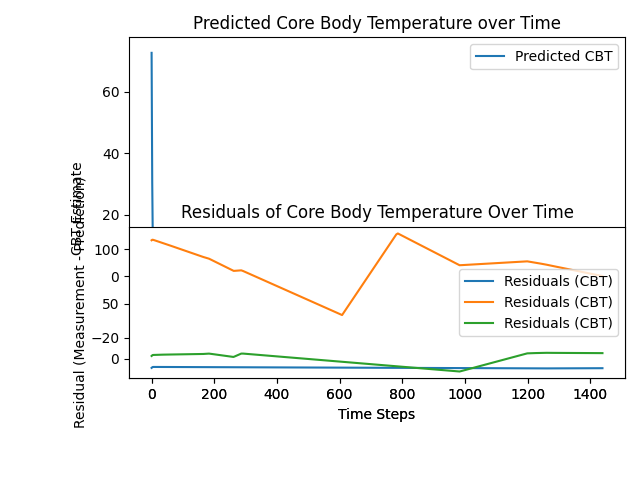
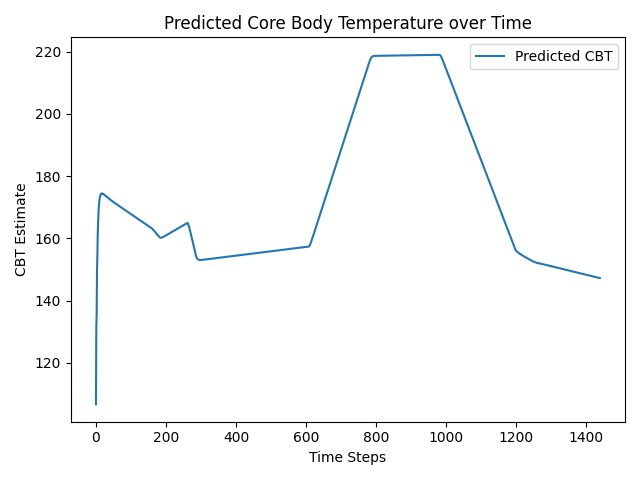
perspective...filter fixed up a bit

diff --git a/CoreBodyTemp/my_kalman_filter.py b/CoreBodyTemp/my_kalman_filter.py
@@ -37,9 +37,8 @@ import pandas as pd
 from filterpy.kalman import predict
 from filterpy.common import Q_discrete_white_noise
 from filterpy.kalman import KalmanFilter
-sys.path.append("./SleepCycle")
+sys.path.append("/home/asyaakkus/Senior-Project-Modeling-Noah/SleepCycle")
 from data_processing import process_categorical_data, process_numerical_data, calc_R
-from f_deriv import matrix_cell, matrix_cell_1, matrix_cell_2, matrix_cell_3, matrix_cell_4, matrix_cell_5
 
 
 #extract heart rate data 
@@ -86,8 +85,6 @@ processed_heart_rate = processed_heart_rate[:min_length]
 processed_respiratory = processed_respiratory[:min_length]
 
 
-
-
 time_vals = range(0, len(processed_basal_rate))
 
 # Number of time steps based on your data length
@@ -97,19 +94,18 @@ n_steps = len(processed_basal_rate)
 zs = np.column_stack((processed_basal_rate, processed_heart_rate, processed_respiratory))
 
 
-# Define initial matrices 
+# Define initial matrices (already provided by you)
 
 # Initial P matrix (state covariance matrix)
-'''
-We set the covariances for the initial P to be 0 because the matrix has not converged yet. this is 
+'''We set the covariances for the initial P to be 0 because the matrix has not converged yet. this is 
 just an initialization and so the filter will update the covariances as the model propagates over time. 
 The values were chosen based on the maximum reasonable numerical value for each as determined by a 
-literature search and observation of processed data arrays. '''
-
+literature search and observation of processed data arrays. 
+'''
 P = np.array([
-        [110, 0, 0, 0], #CBT
-        [0, 100, 0, 0], #BMR
-        [0, 0, 200, 0], #HR
+        [102, 0, 0, 0], #CBT
+        [0, 22, 0, 0], #BMR
+        [0, 0, 160, 0], #HR
         [0, 0, 0, 16], #RR
     ])
 # Initial state X (based on means of X)
@@ -122,23 +118,20 @@ X = np.array([
 
 # Process model matrix F, equivalent to A in math equations
 dt = 1  # 1 second time step
-# See f_derive.py in CoreBodyTemp folder to see how f has been derived
 
-F = np.array ([
-    [1, 0, 0, 0],
-    [0, 1, matrix_cell, matrix_cell_2],
-    [0, matrix_cell_1/60, 1, matrix_cell_4/60],
-    [0, matrix_cell_3/60, matrix_cell_5/60, 1]
-])
-
-'''
 
 F = np.array([
-    [1, 0, dt, 0.5*dt**2],
-    [0, 1, 0, dt],
-    [0, 0, 1, 0],
-    [0, 0, 0, 1],
-]) '''
+    [1, 0, 0, 0],
+    [0, 1, 3.31*np.cos(dt), 0.0001437*np.cos(dt)**2],
+    [0, 0.276, 1, -2.713e-6*np.cos(dt)],
+    [0, 1.835e-8, -6.9652e-10, 1],
+])
+
+def make_F(theta):
+    return np.array([[1, np.cos(theta), 0, 0],
+    [0, -np.sin(theta), 3.31*np.cos(theta), 0.0001437*np.cos(theta)**2],
+    [0, 0.276, 1, -2.713e-6*np.cos(theta)],
+    [0, 1.835e-8, -6.9652e-10, 1]])
 
 def rotation_matrix(theta):
     return np.array([[np.cos(theta), -np.sin(theta), 0, 0],
@@ -161,61 +154,23 @@ def rotation_matrix_4d_xy_xw(theta_xy, theta_xw):
     return R_xy @ R_xw  # Combine the two rotations
 
 # Measurement noise covariance matrix R. Basically what we did for P before. Little goof 
-#R = calc_R([processed_basal_rate, processed_heart_rate, processed_respiratory])
-#print(R)
+R = calc_R([processed_basal_rate, processed_heart_rate, processed_respiratory])
+print(R)
 
-# Calculating the variance for each dataset here
-# Variance for BMR
-bmr_variance = processed_basal_rate.var()
-# Variance for HR
-hr_variance = processed_heart_rate.var()
-# Variance for RR
-rr_variance = processed_respiratory.var()
-
-R = ([
-     [bmr_variance/60**2, 0, 0],
-     [0, hr_variance/60**2, 0 ],
-     [0, 0, rr_variance/60**2]
- ])
-
-# Initialize Q matrix (process noise covariance)
-'''
-1. link: https://dsp.stackexchange.com/questions/21796/question-about-q-matrix-model-process-covariance-in-kalman-filter
-    In general though your Q matrix will be full, not a diagonal, because there is correlation between the state variables. 
-    For example, suppose you are tracking position and velocity in x-axis for a car. Process noise (which Q is modelling) might
-    be things like wind, bumps in the road, and so on. If there is a change in velocity due to this noise, there will also be a 
-    change in position. They are correlated, and so the off-diagonal elements will be non-zero for those terms.
-
-2. Check the file CoreBodyTemp/EDA/data_exploration_covariance.py
-    Just verifying that the rho (non diagonal values) are 0. According to the heat map geenrated, rho=0.
-    Now we find the variance in each dataset and add it the diagonal of the Q matrix. 
-
-'''
-
-# ============= DEBUGGING PURPOSES =================
-# print(hr_variance, rr_variance, bmr_variance)
-# 469.5291188717833 3.334891515419769 98.18365264679386
-
-Q = np.array([
-    [0.5, 0, 0, 0],             #CBT -- according to the NIH, "Among normal individuals, mean daily temperature can differ by 0.5°C (0.9°F), and daily variations can be as much as 0.25 to 0.5°C.
-    [0, 0.2, 0, 0],                #BMR
-    [0, 0, 0.3, 0],    #HR
-    [0, 0, 0, 0.2],     #RR#
+# Two options for Q (process noise covariance)
+Q_filterpy = Q_discrete_white_noise(dim=4, dt=1., var=7)
+Q_manual = np.array([
+    [0.5, 0, 0, 0],
+    [0, 0.2, 0, 0],
+    [0, 0, 0.3, 0],
+    [0, 0, 0, 0.2],
 ])
-'''
-Q = np.array([
-    [0.7, 0, 0, 0],
-    [0, 9.818160966, 0, 0],
-    [0, 0, 47.032652132, 0],
-    [0, 0, 0, 0.333721444],
-]) 
-'''
 
 # Measurement matrix H (maps state to measurement)
 H = np.array([
     [0, 1, 0, 0],  # basal rate mapping
-    [0, 0, 1/60, 0],  # heart rate mapping
-    [0, 0, 0, 1/60]   # respiratory rate mapping
+    [0, 0, 1, 0],  # heart rate mapping
+    [0, 0, 0, 1]   # respiratory rate mapping
 ])
 
 # Kalman filter initialization
@@ -235,7 +190,7 @@ omega = np.pi/6
 # Kalman filter loop: Predict and update steps | here I am also finding the residuals inside the Kalman filter loop
 def run_kalman_filter(X, P, R, Q, F, H, zs, n_steps):
     kf = initialize_kalman_filter(X, P, R, Q, F, H)
-    F_rotation = rotation_matrix(omega)
+    F_rotation = make_F(omega)
     kf_rot = initialize_kalman_filter(X, P, R, Q, F_rotation, H)
     # Arrays to store state estimates and covariances
     xs, cov = [], []
@@ -258,57 +213,58 @@ def run_kalman_filter(X, P, R, Q, F, H, zs, n_steps):
         cov.append(kf.P) # Store the covariance matrix
 
         # Calculate residuals (difference between measurement and prediction)
-        #predicted_measurement = H @ kf.x  # Predicted measurement
-        #residual = z - predicted_measurement
-        #residuals.append(residual)
+        predicted_measurement = H @ kf.x  # Predicted measurement
+        residual = z - predicted_measurement
+        residuals.append(residual)
     
     # Convert results to numpy arrays for easy handling
     xs = np.array(xs)
     cov = np.array(cov)
     xs_rot = np.array(xs_rot)
-    #residuals = np.array(residuals) 
+    residuals = np.array(residuals) 
 
-    return xs_rot, cov #residuals
+    return xs_rot, cov, residuals
 
 # Run the Kalman filter with your data
-xs, Ps = run_kalman_filter(X, P, R, Q, F, H, zs, n_steps)
+xs, Ps, residuals = run_kalman_filter(X, P, R, Q_filterpy, F, H, zs, n_steps)
 
 # xs now contains state estimates, including core body temperature estimates over time
 print(type(xs))
-print("printing shape of xs", np.shape(xs))
+print(np.shape(xs))
 
 
 xs_reshaped = xs.reshape(612655, 4)
+np.savetxt(os.path.join(home_dir, "predictions_cbt.csv"), xs_reshaped, delimiter=",")
 
 xs_cbt = xs_reshaped[:1440, 0]
 ys_cbt = np.arange(len(xs_cbt))
 
 # Calculate Standard Deviation of Residuals and MSE
-#residual_std = np.std(residuals, axis=0)
-#mse = np.mean(residuals**2, axis=0)
+residual_std = np.std(residuals, axis=0)
+mse = np.mean(residuals**2, axis=0)
 
-#residual_std_cbt = residual_std[:, 0]  # Extract standard deviation for CBT
-#mse_cbt = mse[:, 0]  # Extract MSE for CBT
+residual_std_cbt = residual_std[:, 0]  # Extract standard deviation for CBT
+mse_cbt = mse[:, 0]  # Extract MSE for CBT
 
-#print("Standard Deviation of Residuals:", residual_std_cbt)
-#print("Mean Squared Error (MSE):", mse_cbt)
+print("Standard Deviation of Residuals:", residual_std_cbt)
+print("Mean Squared Error (MSE):", mse_cbt)
 
 plt.plot(ys_cbt, xs_cbt, label='Predicted CBT')
 plt.title('Predicted Core Body Temperature over Time')
 plt.xlabel('Time Steps')
 plt.ylabel('CBT Estimate')
 plt.legend()
-
+'''
 # Plot Residuals
-#plt.subplot(2, 1, 2)  # Second plot in the grid
-#plt.plot(ys_cbt, residuals[:len(ys_cbt), 0], label='Residuals (CBT)')
-#plt.title('Residuals of Core Body Temperature Over Time')
-#plt.xlabel('Time Steps')
-#plt.ylabel('Residual (Measurement - Prediction)')
-#plt.legend()
-
+plt.subplot(2, 1, 2)  # Second plot in the grid
+plt.plot(ys_cbt, residuals[:len(ys_cbt), 0], label='Residuals (CBT)')
+plt.title('Residuals of Core Body Temperature Over Time')
+plt.xlabel('Time Steps')
+plt.ylabel('Residual (Measurement - Prediction)')
+plt.legend()
+'''
 
 # Show the final plot with both graphs
 plt.tight_layout()
-plt.savefig('my_plot_kal_rot_1.png')
+plt.savefig('my_plot_kal_rot_with_residuals.png')
 plt.show()
